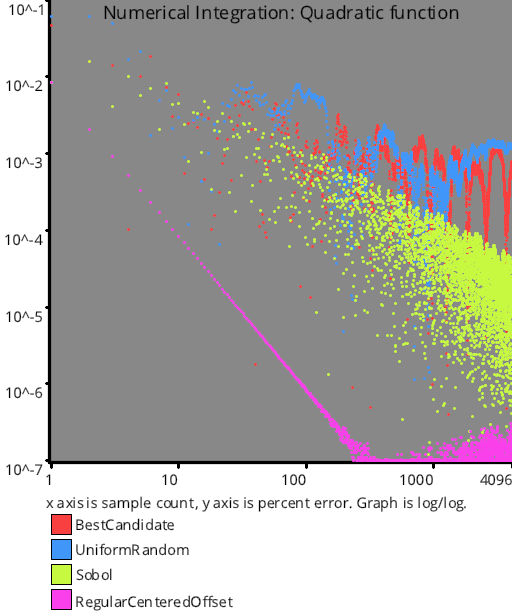
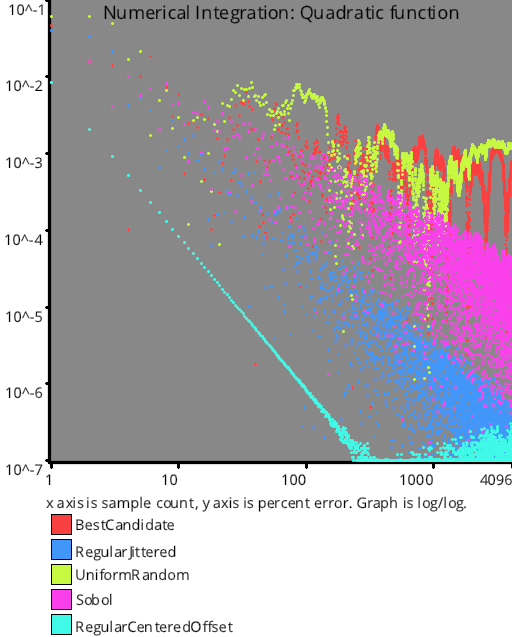
more consistent manual test

diff --git a/src/families/_1d/samples/blue_noise/blue_noise.cpp b/src/families/_1d/samples/blue_noise/blue_noise.cpp
@@ -164,33 +164,18 @@ void _1d::Samples::BlueNoise::BestCandidateRefined(std::vector<float>& values, s
 
 void _1d::Samples::BlueNoise::ManualTest()
 {
+    std::vector<std::vector<SampleGenerateInfo_1d>> testFuncs =
     {
-        std::vector<std::vector<SampleGenerateInfo_1d>> testFuncs =
         {
-            {
-                { [](std::vector<float>& values, size_t numValues, const char* cacheKey, bool wantUnique) {  DataCache::Instance().m_samples__1d.GetSamples_Progressive("blue_noise::BestCandidate", _1d::Samples::BlueNoise::BestCandidate, values, numValues, wantUnique, true); }, "blue_noise::BestCandidate", "_1d", "blue_noise", "BestCandidate", true, true },
-                { [](std::vector<float>& values, size_t numValues, const char* cacheKey, bool wantUnique) {  DataCache::Instance().m_samples__1d.GetSamples_NonProgressive("regular::RegularJittered", _1d::Samples::Regular::RegularJittered, values, numValues, wantUnique, true); }, "regular::RegularJittered", "_1d", "regular", "RegularJittered", false, true },
-                { [](std::vector<float>& values, size_t numValues, const char* cacheKey, bool wantUnique) {  DataCache::Instance().m_samples__1d.GetSamples_Progressive("uniform_random::UniformRandom", _1d::Samples::UniformRandom::UniformRandom, values, numValues, wantUnique, true); }, "uniform_random::UniformRandom", "_1d", "uniform_random", "UniformRandom", true, true },
-                { [](std::vector<float>& values, size_t numValues, const char* cacheKey, bool wantUnique) {  DataCache::Instance().m_samples__1d.GetSamples_Progressive("lds::Sobol", _1d::Samples::LDS::Sobol, values, numValues, wantUnique, false); }, "lds::Sobol", "_1d", "lds", "Sobol", true, false },
-                { [](std::vector<float>& values, size_t numValues, const char* cacheKey, bool wantUnique) {  DataCache::Instance().m_samples__1d.GetSamples_NonProgressive("regular::RegularCenteredOffset", _1d::Samples::Regular::RegularCenteredOffset, values, numValues, wantUnique, false); }, "regular::RegularCenteredOffset", "_1d", "regular", "RegularCenteredOffset", false, false },
-            }
-        };
+            { [](std::vector<float>& values, size_t numValues, const char* cacheKey, bool wantUnique) {  DataCache::Instance().m_samples__1d.GetSamples_Progressive("blue_noise::BestCandidate", _1d::Samples::BlueNoise::BestCandidate, values, numValues, wantUnique, true); }, "blue_noise::BestCandidate", "_1d", "blue_noise", "BestCandidate", true, true },
+            { [](std::vector<float>& values, size_t numValues, const char* cacheKey, bool wantUnique) {  DataCache::Instance().m_samples__1d.GetSamples_NonProgressive("regular::RegularJittered", _1d::Samples::Regular::RegularJittered, values, numValues, wantUnique, true); }, "regular::RegularJittered", "_1d", "regular", "RegularJittered", false, true },
+            { [](std::vector<float>& values, size_t numValues, const char* cacheKey, bool wantUnique) {  DataCache::Instance().m_samples__1d.GetSamples_Progressive("uniform_random::UniformRandom", _1d::Samples::UniformRandom::UniformRandom, values, numValues, wantUnique, true); }, "uniform_random::UniformRandom", "_1d", "uniform_random", "UniformRandom", true, true },
+            { [](std::vector<float>& values, size_t numValues, const char* cacheKey, bool wantUnique) {  DataCache::Instance().m_samples__1d.GetSamples_Progressive("lds::Sobol", _1d::Samples::LDS::Sobol, values, numValues, wantUnique, false); }, "lds::Sobol", "_1d", "lds", "Sobol", true, false },
+            { [](std::vector<float>& values, size_t numValues, const char* cacheKey, bool wantUnique) {  DataCache::Instance().m_samples__1d.GetSamples_NonProgressive("regular::RegularCenteredOffset", _1d::Samples::Regular::RegularCenteredOffset, values, numValues, wantUnique, false); }, "regular::RegularCenteredOffset", "_1d", "regular", "RegularCenteredOffset", false, false },
+        }
+    };
 
-        _1d::Tests::Discrepancy::CalculateDiscrepancy(testFuncs, "CalculateDiscrepancy", "Doc_");
-        //_1d::Tests::Discrepancy::CalculateDiscrepancyWrapAround(testFuncs, "CalculateDiscrepancyWrapAround", "Doc_");
-    }
-
-    {
-        std::vector<std::vector<SampleGenerateInfo_1d>> testFuncs =
-        {
-            {
-                { [](std::vector<float>& values, size_t numValues, const char* cacheKey, bool wantUnique) {  DataCache::Instance().m_samples__1d.GetSamples_Progressive("blue_noise::BestCandidate", _1d::Samples::BlueNoise::BestCandidate, values, numValues, wantUnique,  true); }, "blue_noise::BestCandidate", "_1d", "blue_noise", "BestCandidate", true, true },
-                { [](std::vector<float>& values, size_t numValues, const char* cacheKey, bool wantUnique) {  DataCache::Instance().m_samples__1d.GetSamples_Progressive("uniform_random::UniformRandom", _1d::Samples::UniformRandom::UniformRandom, values, numValues, wantUnique, true); }, "uniform_random::UniformRandom", "_1d", "uniform_random", "UniformRandom", true, true },
-                { [](std::vector<float>& values, size_t numValues, const char* cacheKey, bool wantUnique) {  DataCache::Instance().m_samples__1d.GetSamples_Progressive("lds::Sobol", _1d::Samples::LDS::Sobol, values, numValues, wantUnique, false); }, "lds::Sobol", "_1d", "lds", "Sobol", true, false },
-                { [](std::vector<float>& values, size_t numValues, const char* cacheKey, bool wantUnique) {  DataCache::Instance().m_samples__1d.GetSamples_NonProgressive("regular::RegularCenteredOffset", _1d::Samples::Regular::RegularCenteredOffset, values, numValues, wantUnique, false); }, "regular::RegularCenteredOffset", "_1d", "regular", "RegularCenteredOffset", false, false },
-            }
-        };
-
-        _1d::Tests::Integration::Quadratic(testFuncs, "Quadratic", "Doc_");
-    }
+    _1d::Tests::Discrepancy::CalculateDiscrepancy(testFuncs, "CalculateDiscrepancy", "Doc_");
+    //_1d::Tests::Discrepancy::CalculateDiscrepancyWrapAround(testFuncs, "CalculateDiscrepancyWrapAround", "Doc_");
+    _1d::Tests::Integration::Quadratic(testFuncs, "Quadratic", "Doc_");
 }
